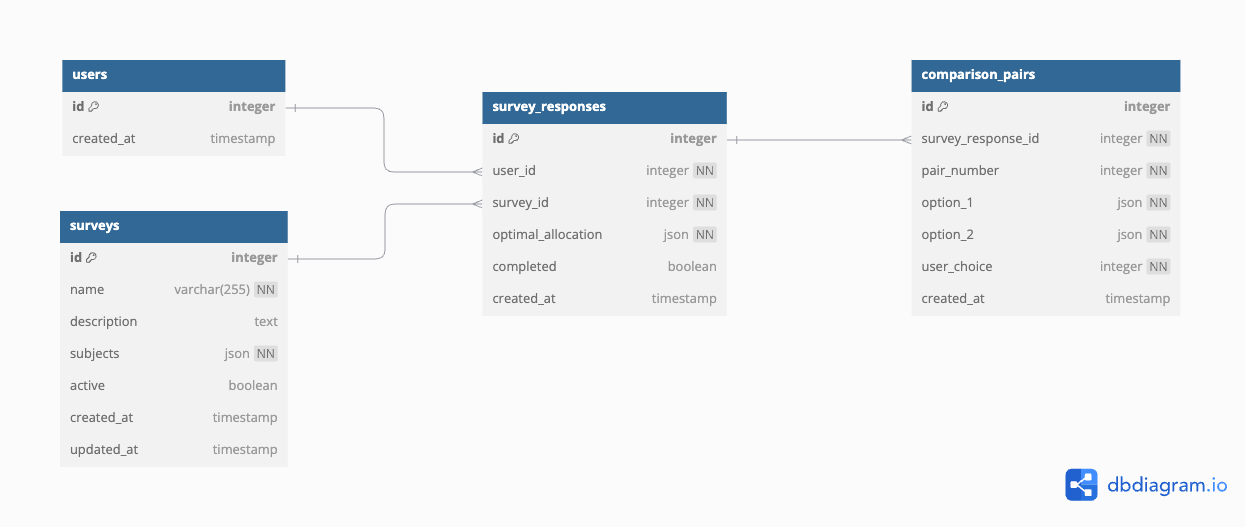
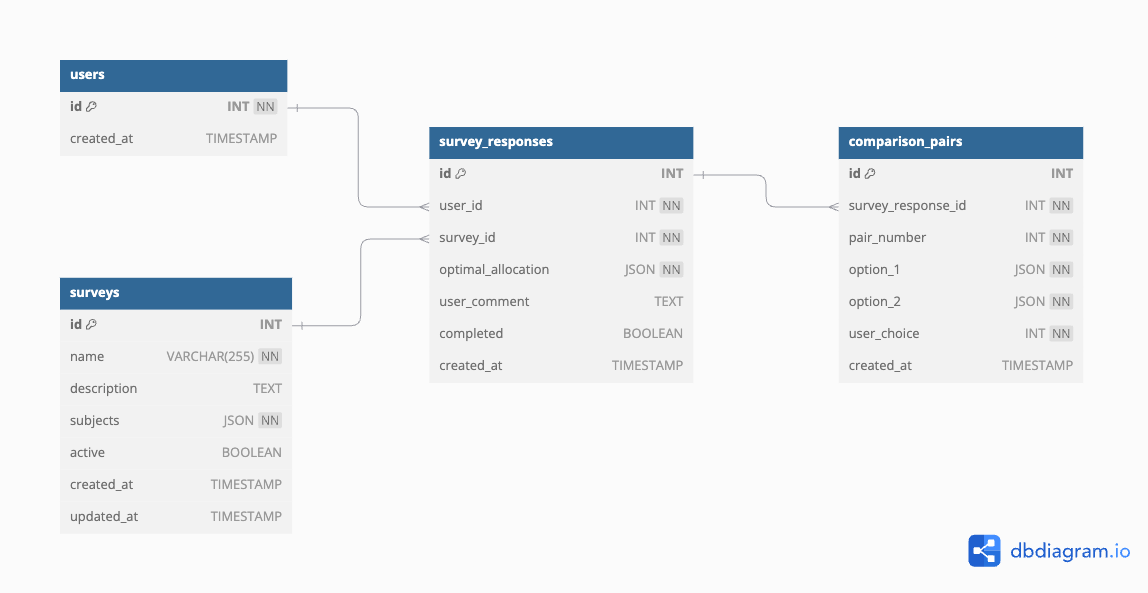
add a user_comment to the survey page

diff --git a/application/templates/survey.html b/application/templates/survey.html
@@ -94,10 +94,16 @@ and collects the user's preferences through a form submission.
             </div>
         </div>
 
+        <div class="comment-section">
+            <h3>הערות</h3>
+            <textarea name="user_comment" id="user_comment" rows="4" placeholder="רשום את הערותיך כאן (רשות)"></textarea>
+        </div>
+
         <div id="error-message" class="error-message" style="display: none;"></div>
         <div class="submit-container">
             <button type="submit" class="btn" id="submit-btn">שלח סקר</button>
         </div>
     </form>
+
 </div>
 {% endblock %}

diff --git a/application/static/css/style.css b/application/static/css/style.css
@@ -277,3 +277,15 @@ input[type="radio"] {
 #alertClose:hover {
     background-color: #45a049;
 }
+
+.comment-section {
+    margin-top: 20px;
+    margin-bottom: 20px;
+}
+
+.comment-section textarea {
+    width: 97%;
+    padding: 10px;
+    border: 1px solid #ddd;
+    border-radius: 4px;
+}

diff --git a/database/queries.py b/database/queries.py
@@ -31,7 +31,7 @@ def create_user(user_id: int) -> int:
 
 
 def create_survey_response(
-    user_id: int, survey_id: int, optimal_allocation: list
+    user_id: int, survey_id: int, optimal_allocation: list, user_comment: str
 ) -> int:
     """
     Inserts a new survey response into the survey_responses table.
@@ -40,13 +40,14 @@ def create_survey_response(
         user_id (int): The ID of the user submitting the survey.
         survey_id (int): The ID of the survey.
         optimal_allocation (list): The user optimal allocation in JSON format.
+        user_comment (str): The user's comment on the survey.
 
     Returns:
         int: The ID of the newly created survey response, or None if an error occurs.
     """
     query = """
-        INSERT INTO survey_responses (user_id, survey_id, optimal_allocation)
-        VALUES (%s, %s, %s)
+        INSERT INTO survey_responses (user_id, survey_id, optimal_allocation, user_comment)
+        VALUES (%s, %s, %s, %s)
     """
     optimal_allocation_json = json.dumps(optimal_allocation)
     logger.debug(
@@ -54,7 +55,9 @@ def create_survey_response(
     )
 
     try:
-        return execute_query(query, (user_id, survey_id, optimal_allocation_json))
+        return execute_query(
+            query, (user_id, survey_id, optimal_allocation_json, user_comment)
+        )
     except Exception as e:
         logger.error("Error inserting survey response: %s", str(e))
         return None

diff --git a/application/routes.py b/application/routes.py
@@ -151,8 +151,9 @@ def survey():
     elif request.method == "POST":
         data = request.form
         user_vector = list(map(int, data.get("user_vector").split(",")))
+        user_comment = request.form.get("user_comment", "")
         logger.debug(
-            f"Survey submission received from user {user_id}. User vector: {user_vector}"
+            f"Survey submission received from user {user_id}. User vector: {user_vector}, Comment: {user_comment}"
         )
 
         # Check awareness question
@@ -176,7 +177,9 @@ def survey():
             else:
                 logger.info(f"User with ID {user_id} already exists")
 
-            survey_response_id = create_survey_response(user_id, survey_id, user_vector)
+            survey_response_id = create_survey_response(
+                user_id, survey_id, user_vector, user_comment
+            )
             logger.info(f"Survey response created with ID: {survey_response_id}")
 
             for i in range(10):
